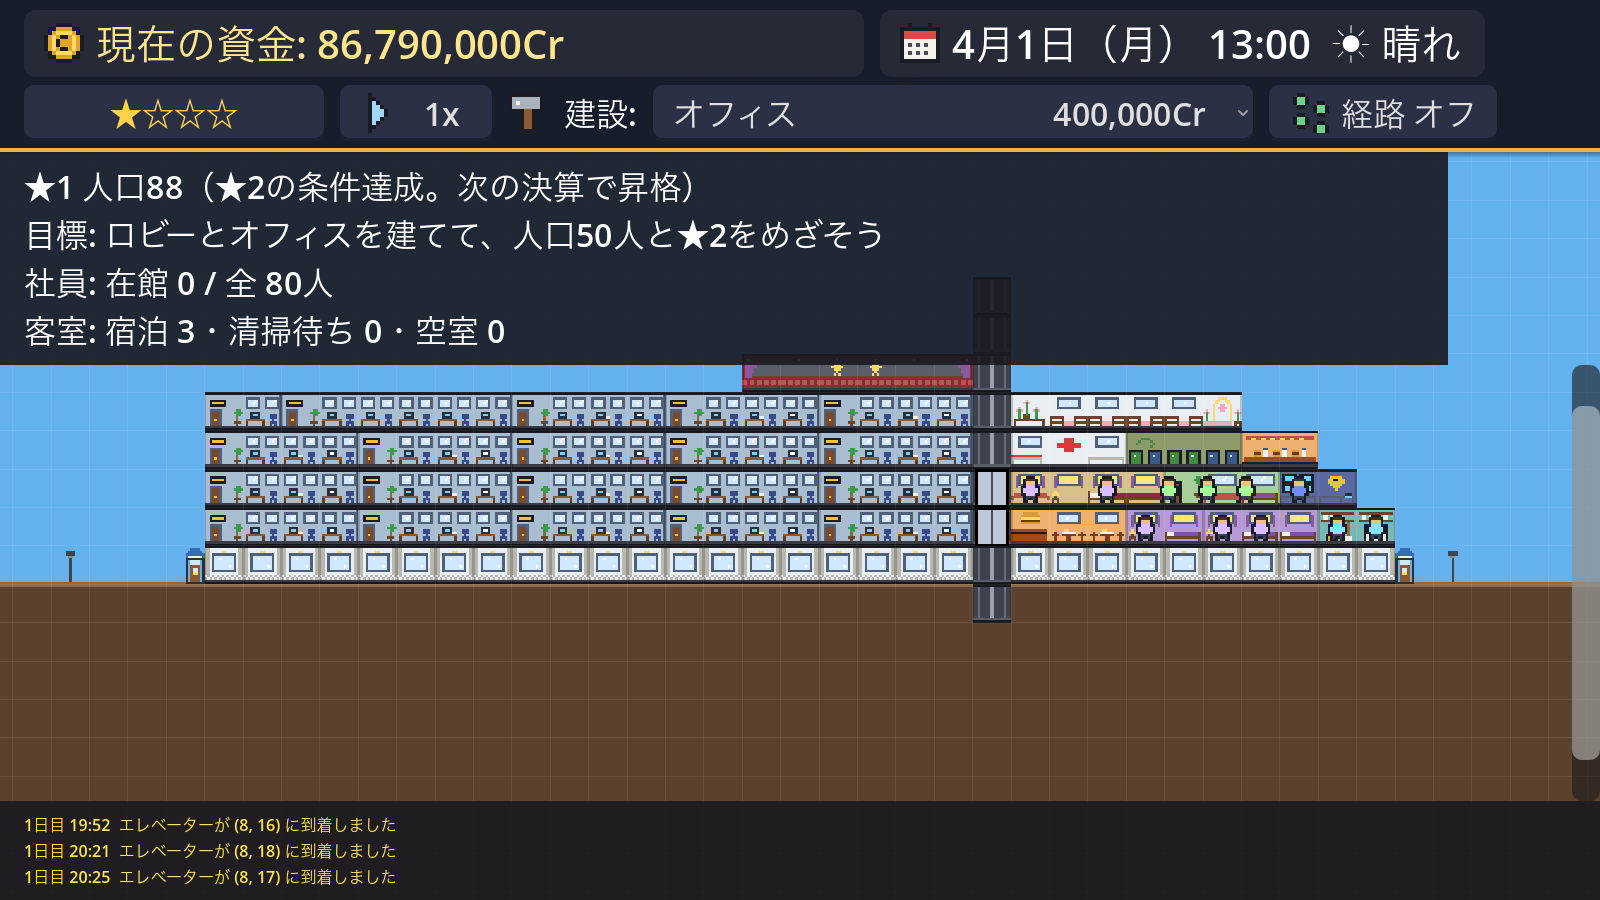
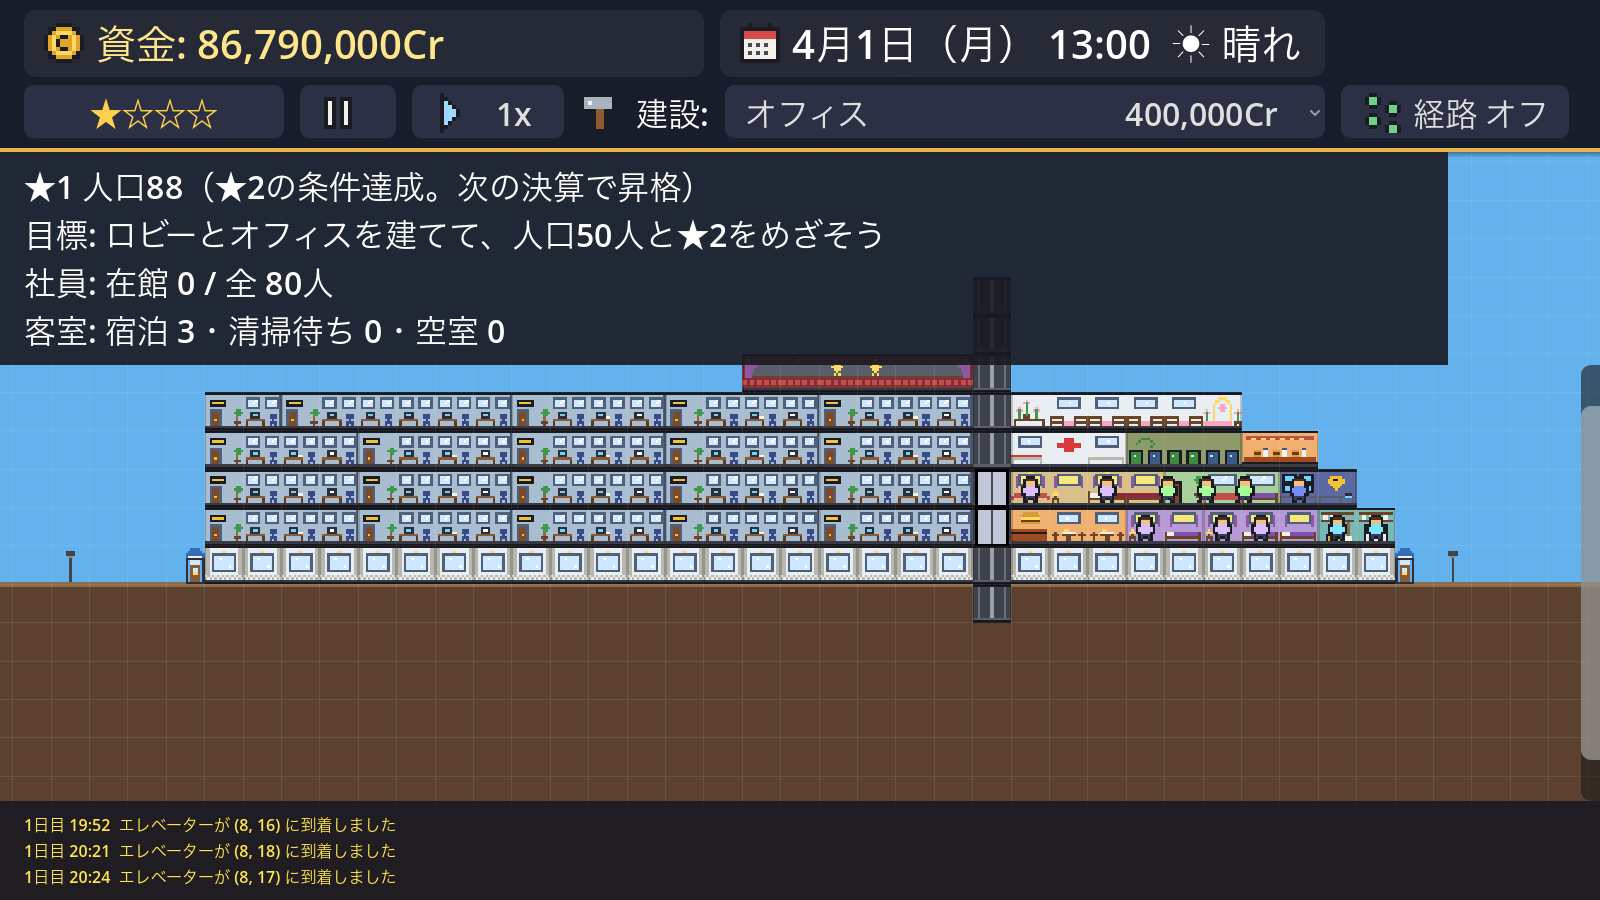
feat: 一時停止（スペースキー・上部バーのボタン・メニュー）
- 止めている間は時計・人・エレベーターが止まり、建設・撤去・カメラの移動はできる
- 上部バーのボタンがスペースキーを奪わないようにする
- キーでの画面移動を、ゲームの速さに関係なく同じ速さにする
- 資金の表示を「資金:」に短くして、上部バーが画面に収まるようにする

Changed region(s): [[0.0625, 0.0311, 0.5, 0.1556], [0.4375, 0.0311, 1.0, 0.1556], [0.9688, 0.4044, 1.0, 0.9022]]

diff --git a/README.md b/README.md
@@ -148,7 +148,8 @@ godot --path . -s res://tools/generate_readme_images.gd
 | 左右スクロール | Shift + マウスホイール / A・D・←・→ キー |
 | ズーム | Ctrl（⌘）+ マウスホイール / トラックパッドのピンチ |
 | カメラを動かす | トラックパッドの2本指スクロール / マウスの中ボタンでドラッグ |
-| 時間の速さ | 上部バーの★の右にある速度ボタン（押すたびに 1x → 4x → 16x → 1x と切り替わり、今の速度と ▶ の数で速さが出る） |
+| 一時停止・再開 | スペースキー または 上部バーの ⏸ のボタン（止めている間は時計・人・エレベーターが止まり、上部バーの時刻の横に「⏸ 停止中」と出る。建設・撤去・カメラの移動はできる） |
+| 時間の速さ | 上部バーの ⏸ の右にある速度ボタン（押すたびに 1x → 4x → 16x → 1x と切り替わり、今の速度と ▶ の数で速さが出る。一時停止中に押すと、その速さで再開する） |
 | 建てるものを選ぶ | 上部バーの「建設」メニュー（名前と建設費が出る。大きさはカーソルの枠でわかり、くわしい説明はメニューにカーソルを合わせると出る） |
 | ビルのくわしい状況 | 上部バーの★を押す（人口・次の★の条件・目標・社員・オフィス・客室。気をつけることがあるときは★の横に ⚠ と件数が出る） |
 | メニュー | 画面いちばん上のメニューバー（ファイル・表示・ゲーム・ヘルプ）。下記のほとんどの操作はここからも選べる |

diff --git a/Tasks.md b/Tasks.md
@@ -178,3 +178,11 @@
 - [x] 衛生の悪化: 施設全体が薄汚れる見た目を付ける。ハウスキーパー室の不足も原因に含める
 - [x] ゴキブリ: 客室の清掃が長く放置されると出る。ハウスキーパーが掃除すると消える。飲食店・ショップでは客が減る
 - [x] 埋蔵金: 掘り当てたときに宝箱・金塊の絵を出す
+
+## Phase 18: 遊びやすさ
+
+上から順に進める。
+
+- [x] 一時停止: スペースキーと上部バーのボタン（⏸）で、ゲームの時間を止める（止めている間も建設・撤去・カメラの移動はできる）
+- [ ] オートセーブと複数のセーブ枠: 毎日の決算のあとに自動で保存する。手動のセーブは3枠に分ける
+- [ ] 取り消し（⌘Z）: 直前の建設・撤去を1手ずつ戻す（払ったお金も戻す）
